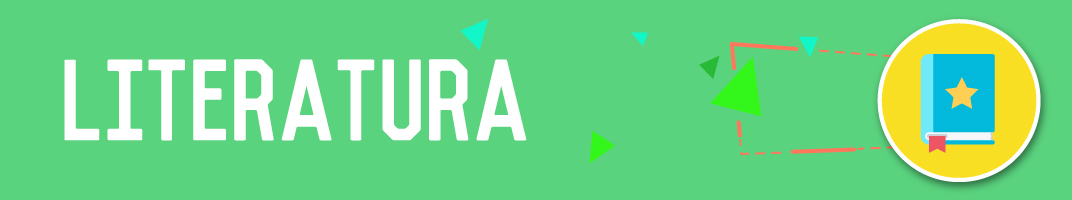
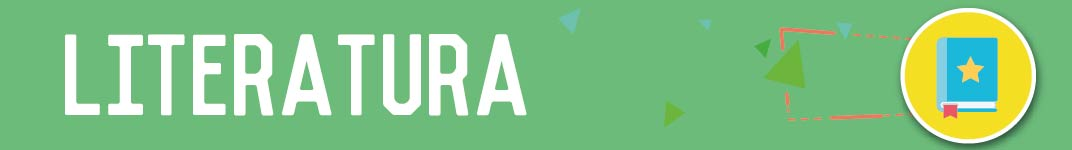
Cambios en el single.php
imagenes del header  y social icons

diff --git a/js/portal.js b/js/portal.js
@@ -17,30 +17,12 @@ $(document).ready(function(e){
 		$(this).css('height',(altoImg-5)+'px');
 	});
 
-	//Evento Hover en las imagenes para mostrarla
-	/*$(".imagenCategoria img").mouseenter(
-		function(e){
-			//e.stopPropagation();
-			//Obtiene la descripción más próxima a la imagen
-			descripcion=$(this).parent().nextAll(".descripcionCategoria").eq(0);
-			//console.log("Entra html: "+descripcion.html());
-			descripcion.removeClass("hidden animated fadeOutDown");
-			descripcion.addClass("visible animated fadeInUp");
-		}	
-	);
-
-	$(".imagenCategoria > .descripcionCategoria").mouseleave(
-		function(e){ 
-			$(this).removeClass("animated fadeInUp");
-			$(this).addClass("animated fadeOutDown"); 			
-
-		}		
-	);*/
 
 	$(".imagenCategoria").mousemove(function(e){
 		var descripcion=$(this).children(".descripcionCategoria").eq(0);
 		if(!descripcion.hasClass("fadeInUp")){
 			var childOffset = $(this).children("div").children("img").offset(); 
+			var altoImg = $(this).children("div").children("img").outerHeight(true);
 			var relY = e.pageY - childOffset.top;			
 			if(relY<=altoImg){
 						
@@ -54,8 +36,9 @@ $(document).ready(function(e){
 	$(".imagenCategoria").hover(
 		function(e){
 			var childOffset = $(this).children("div").children("img").offset(); 
+			var altoImg = $(this).children("div").children("img").outerHeight(true);
 			var relY = e.pageY - childOffset.top;	
-			//console.log('relX: '+relX+' relY:'+relY+' altoImg: '+altoImg); 
+			console.log(' relY:'+relY+' - altoImg: '+altoImg); 
 			if(relY<=altoImg){
 				descripcion=$(this).children(".descripcionCategoria").eq(0);			
 				//descripcion=$(this).nextAll(".descripcionCategoria").eq(0);

diff --git a/style.css b/style.css
@@ -60,7 +60,7 @@ p{
 /*********** Menu y Header *************/
 
 header.row{
-      margin-bottom: 2em;
+      margin-bottom: 0em; 
 }
 nav .nav{
       /*font-family: 'Amatica SC', cursive;*/
@@ -120,6 +120,9 @@ nav .nav{
 }
 
 /*********** Menu Iconos *************/
+.GaleriaPie{
+  margin-top: 2em;
+}
 .GaleriaPie .iconos{
       background-size: cover;
       margin: 1em 0; 
@@ -300,7 +303,7 @@ nav .nav{
 }
 
 .imagenCategoria > .descripcionCategoria {
-
+    font-family: 'Montserrat', sans-serif;
     color: white;
     position: absolute;
     z-index: 100000000;
@@ -321,9 +324,12 @@ nav .nav{
 
 /************* Articulos, Paginas y Blog ***********************/
 
+.contenido h2{
+  margin-top: 0px !important; 
+}
 .thumb{
      overflow: hidden;  
-     padding-top: 2em;
+     margin: 4em 2em 2em 0em;
      text-align: center;
 }
 .thumb .size-thumbnail-100,.thumb .thumbnail-100 {
@@ -338,7 +344,7 @@ nav .nav{
 .sf-filter{
       width: 100%;
       /*background: #bbbbbb !important;*/
-      padding: 2em 0.5em;
+      padding: 0.7em;
       border-radius: 20px 0px 20px 0px;
       -moz-border-radius: 20px 0px 20px 0px;
       -webkit-border-radius: 20px 0px 20px 0px;
@@ -353,6 +359,9 @@ nav .nav{
       width: 14% !important;
       margin-right: 2% !important;
       float: left;
+}
+.sf-element legend{
+  font-size: 1em;
 }
 .sf-result h3{
       text-align: center;   

diff --git a/page.php b/page.php
@@ -2,7 +2,7 @@
 <div class="row">
   <?php if(have_posts()): while(have_posts()): the_post(); ?>
   <article>
-    <div class="contenido col-xs-12 col-sm-12col-md-10 col-md-offset-1 col-lg-10 col-lg-offset-1">
+    <div class="contenido col-xs-12 col-sm-12 col-md-10 col-md-offset-1 col-lg-10 col-lg-offset-1">
       <h2><?php the_title();?></h2>
       <div class="date"><?php the_date(); ?><span><?php the_category(); ?></span></div>
       <?php the_content();?>
@@ -25,20 +25,26 @@ jQuery(document).ready(function(e){
         //alert(jQuery("#sf-field-1").val());
         var background="#cccccc";
         var id_imagen=jQuery(this).val();
+        //console.log(JSON.stringify(id_imagen));
+        if(id_imagen==""){
+
+          background="#ac1832";
+          id_imagen=0; 
+        }
         if(id_imagen==2) //Danza
-          background="#ff5b40"; 
+          background="#eb5f46"; 
         else if(id_imagen==3) //Música
-          background="#765fe1";
+          background="#615da7";
         else if(id_imagen==4) //Literatura
-          background="#59d37e";  
+          background="#6cbb7a";  
         else if(id_imagen==5) //Teatro
           background="#c5d62e"; 
         else if(id_imagen==6) //Creación Digital
           background="#ffc200"; 
         else if(id_imagen==7) //Artes Plásticas
-          background="#20b9d9"; 
+          background="#1fbad8"; 
         else if(id_imagen==8) //Audiovisuales
-          background="#fd597b";   
+          background="#eb597d";   
         var fondoContenidos=".sf-result li h3 a{ color: "+background+" !important;}";
         //console.log(fondoContenidos.length);
         
@@ -49,10 +55,10 @@ jQuery(document).ready(function(e){
         jQuery(".sf-wrapper style").html(estilos);
 
         //background=background+" !important";
-        var header_image_src=template_url+"/imagenes/banners/"+jQuery(this).val()+".jpg";
+        var header_image_src=template_url+"/imagenes/banners/"+id_imagen+".jpg";
         jQuery('.header-bg').css({'background':'url('+ header_image_src+') left top no-repeat',
                                    'width': '100%',
-                                   'height': '200px',
+                                   'height': '150px',
                                    'background-size':'cover',
                                    'margin-top': '110px'});
         jQuery('.sf-filter').css('background',background);                    

diff --git a/single.php b/single.php
@@ -1,18 +1,18 @@
 <?php get_header(); ?>
 <div class="row">
 	<?php if(have_posts()): while(have_posts()): the_post(); ?>
-	<article>
-		<div class="thumb col-xs-12 col-sm-12 col-md-6 col-lg-6">
+	<article class="col-xs-12 col-sm-12 col-md-10 col-md-offset-1 col-lg-10 col-lg-offset-1">
+		<div class="thumb col-xs-12 col-sm-12 col-md-4 col-lg-4">
 			<?php if(has_post_thumbnail())
 					//the_post_thumbnail(array('class' => "thumbnail-100"));
 					the_post_thumbnail('medium_large',array('class' => "thumbnail-100"));
 			?>
 		</div>
-		<div class="contenido col-xs-12 col-sm-12 col-md-6 col-lg-6">
+		<!-- <d iv class="contenido col-xs-12 col-sm-12 col-md-6 col-lg-6">-->
 			<h2><?php the_title();?></h2>
 			<div class="date"><?php the_date(); ?><span><?php the_category(); ?></span></div>
 			<?php the_content();?>
-		</div>			
+		<!-- </div>			 -->
 	</article>
 	<?php endwhile; else: ?>
 	<h2>No se encontro el Post</h2>
